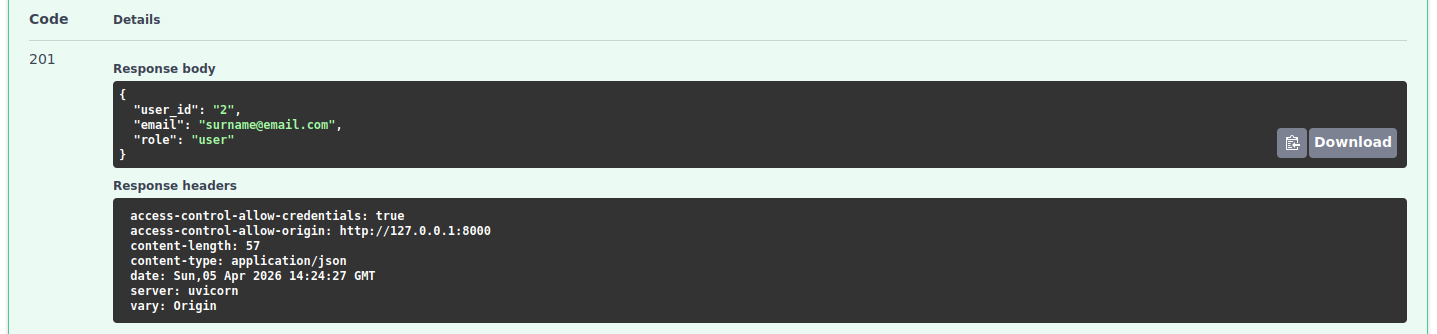
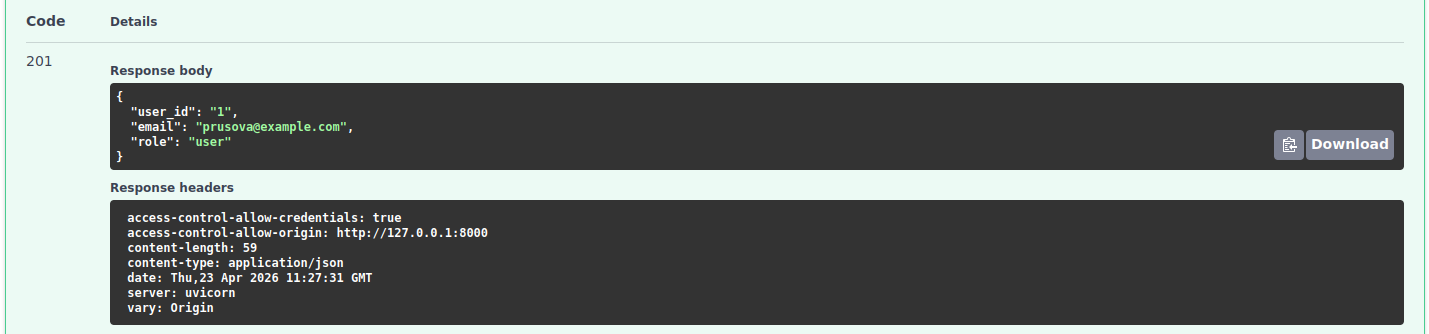
Изменена документация auth_service

diff --git a/llm-chat-service/chat_api_service/app/schemas/config.py b/llm-chat-service/chat_api_service/app/schemas/config.py
@@ -70,7 +70,7 @@ class RedisConfig(ConfigWithPasswd):
         """
         :return: Строка подключения к Redis.
         """
-        return (f"redis://{self.password_quoted}{self.host}:"
+        return (f"redis://:{self.password_quoted}@{self.host}:"
                 f"{self.port}/{self.db}")
 
 

diff --git a/llm-chat-service/auth_service/app/schemas/config.py b/llm-chat-service/auth_service/app/schemas/config.py
@@ -63,7 +63,8 @@ class Settings(BaseSettings):
     model_config = SettingsConfigDict(
         env_file_encoding="utf-8",
         extra="ignore",
-        env_nested_delimiter="__"
+        env_nested_delimiter="__",
+        env_file=".env"
     )
     app_name: str = Field(
         default="Auth Service",

diff --git a/llm-chat-service/chat_api_service/app/main.py b/llm-chat-service/chat_api_service/app/main.py
@@ -5,4 +5,4 @@ app = App(settings).app
 
 if __name__ == '__main__':
     import uvicorn
-    uvicorn.run(app, host="0.0.0.0", port=8000)
+    uvicorn.run(app, host="0.0.0.0", port=8001)

diff --git a/llm-chat-service/auth_service/docs/login/README.md b/llm-chat-service/auth_service/docs/login/README.md
@@ -31,7 +31,7 @@ curl -X 'POST' \
   'http://127.0.0.1:8000/auth/login' \
   -H 'accept: application/json' \
   -H 'Content-Type: application/x-www-form-urlencoded' \
-  -d 'grant_type=password&username=surname%40email.com&password=P%40ssw0rd!&scope=&client_id=string&client_secret=********'
+  -d 'grant_type=password&username=prusova%40example.com&password=P%40ssw0rd!&scope=&client_id=string&client_secret=********'
 ```
 
 ## Response

diff --git a/llm-chat-service/auth_service/docs/register/README.md b/llm-chat-service/auth_service/docs/register/README.md
@@ -23,7 +23,7 @@ curl -X 'POST' \
   -H 'accept: application/json' \
   -H 'Content-Type: application/json' \
   -d '{
-  "email": "surname@email.com",
+  "email": "prusova@example.com",
   "password": "P@ssw0rd!"
 }'
 ```
